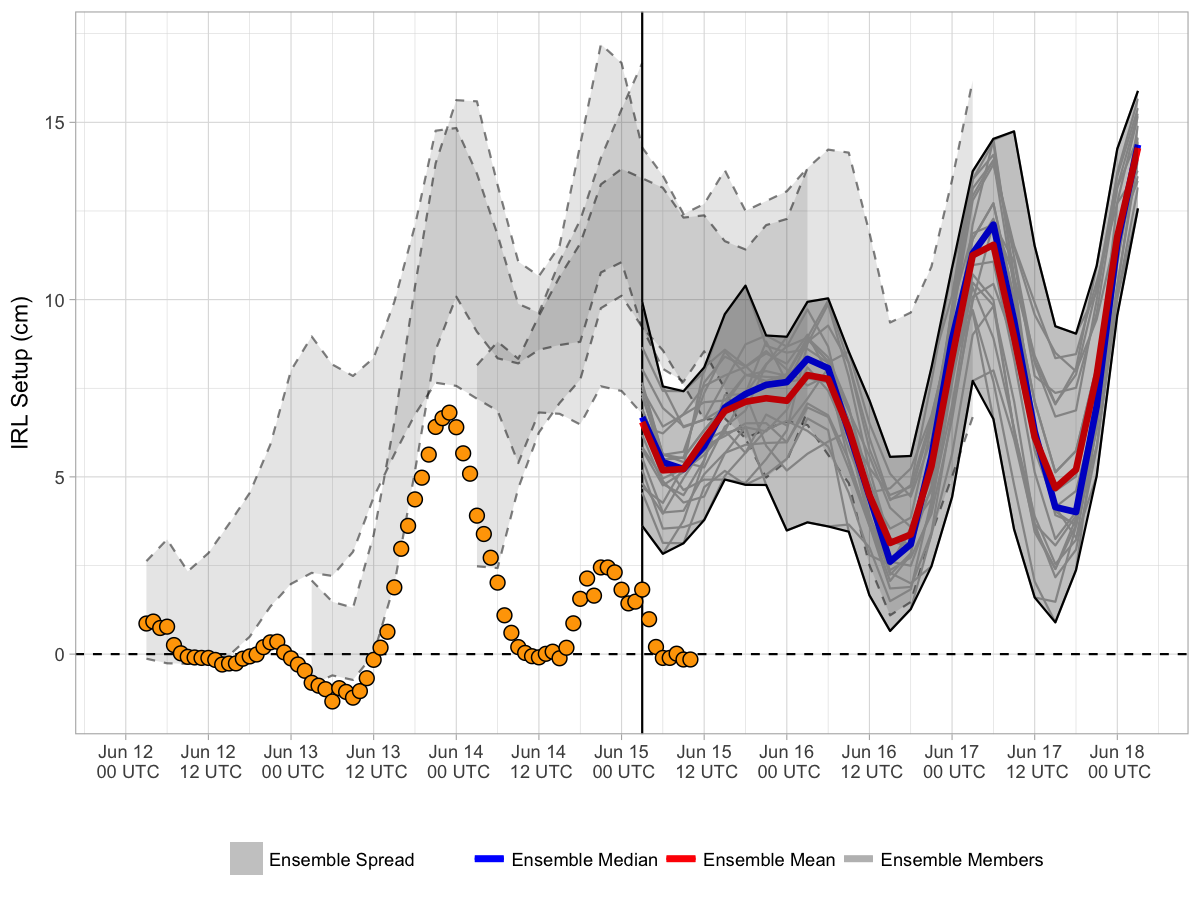
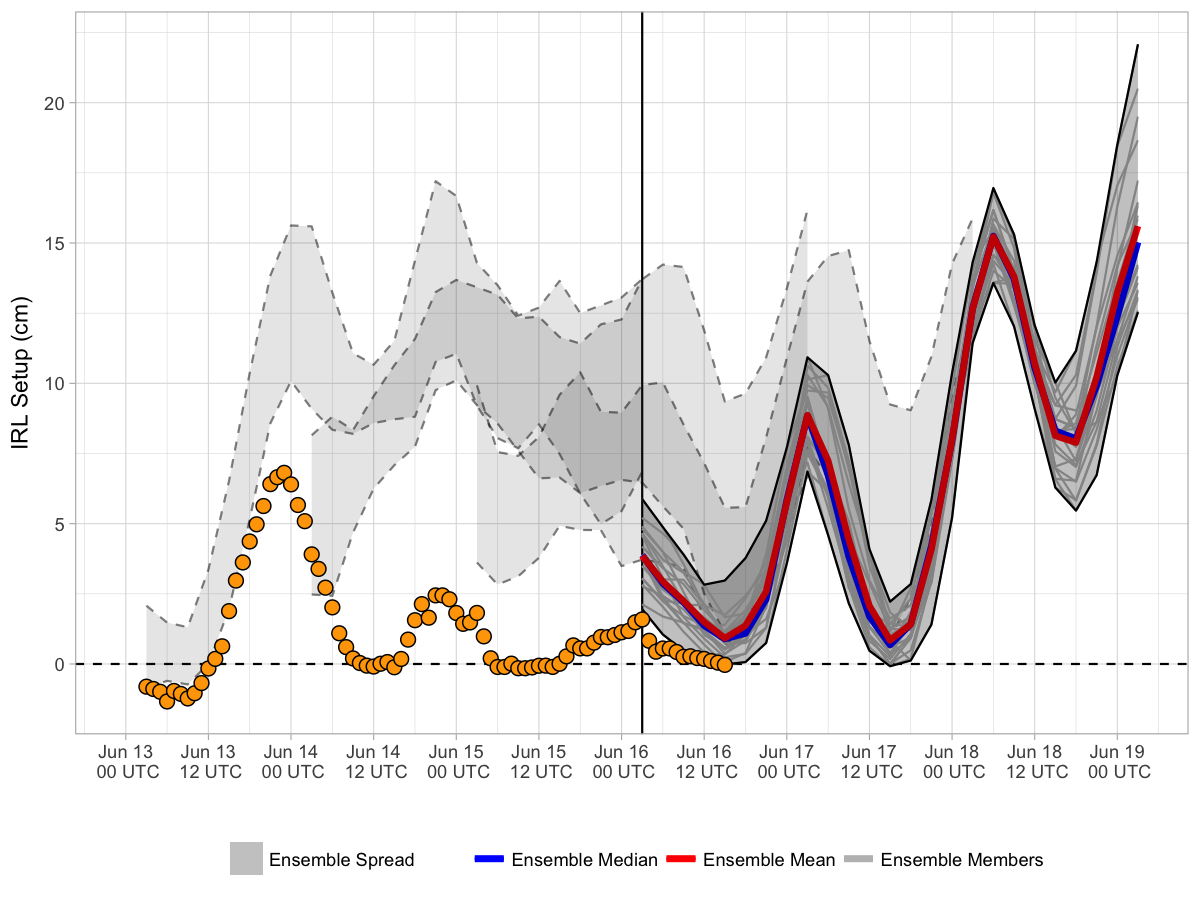
20170616 forecast update

diff --git a/docs/index.md b/docs/index.md
@@ -3,7 +3,7 @@ Current Forecast
 
 [![](img/raw_setup.png)](https://bhlmn.github.io/IRLSetup/img/raw_setup.png)
 
-> Forecast valid 2017-06-15 06:55:44.
+> Forecast valid 2017-06-16 11:59:05.
 
 Explanation
 -----------
@@ -15,7 +15,7 @@ water elevation in the northern IRL (near Titusville), and negative
 setup indicates the increase elevation in the southern IRL (near
 Sebastian). The x-axis displays the date and time in UTC. The solid
 vertical line represents the beginning of the most recent ensemble
-forecast (currently 2017-06-14 18:00:00). For this most recent forecast,
+forecast (currently 2017-06-15 18:00:00). For this most recent forecast,
 the ensemble spread (grey shading) is bound by solid black lines, with
 individual members represented by faint grey lines. The ensemble mean
 and median for this are represented by the red and blue curves,
